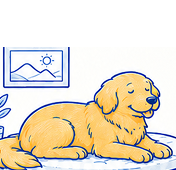
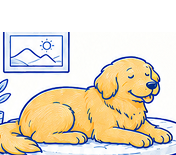
Final fix for emotion state images: completely remove top title text and left number badges. Recropped all 5 dog illustrations with top starting at y=35 to completely remove the 'Behavioral Expressions of Five Dog States' title text. Left crop maintained at 55px to remove orange number badges (1-5).

Changed region(s): [[0.0, 0.2065, 1.0, 1.0], [0.0, 0.8516, 0.0852, 1.0], [0.9659, 0.9806, 1.0, 1.0]]

diff --git a/index.html b/index.html
@@ -309,7 +309,7 @@ section{position:relative;padding-block:80px}
 .state-panel.active{display:block}
 @keyframes fadeIn{from{opacity:0;transform:translateY(8px)}to{opacity:1;transform:none}}
 .state-panel-header{display:flex;align-items:center;gap:16px;margin-bottom:20px;padding-bottom:16px;border-bottom:1px solid var(--line)}
-.state-icon{width:200px;height:170px;border-radius:16px;display:flex;align-items:center;justify-content:center;font-size:28px;overflow:hidden;flex-shrink:0;background:#fff}
+.state-icon{width:200px;height:175px;border-radius:16px;display:flex;align-items:center;justify-content:center;font-size:28px;overflow:hidden;flex-shrink:0;background:#fff}
 .state-icon img{width:100%;height:100%;object-fit:contain;display:block;object-position:center}
 .state-panel-header h4{font-size:20px;font-weight:800;margin-bottom:2px}
 .state-panel-header .state-acc{font-size:13px;color:var(--muted)}
